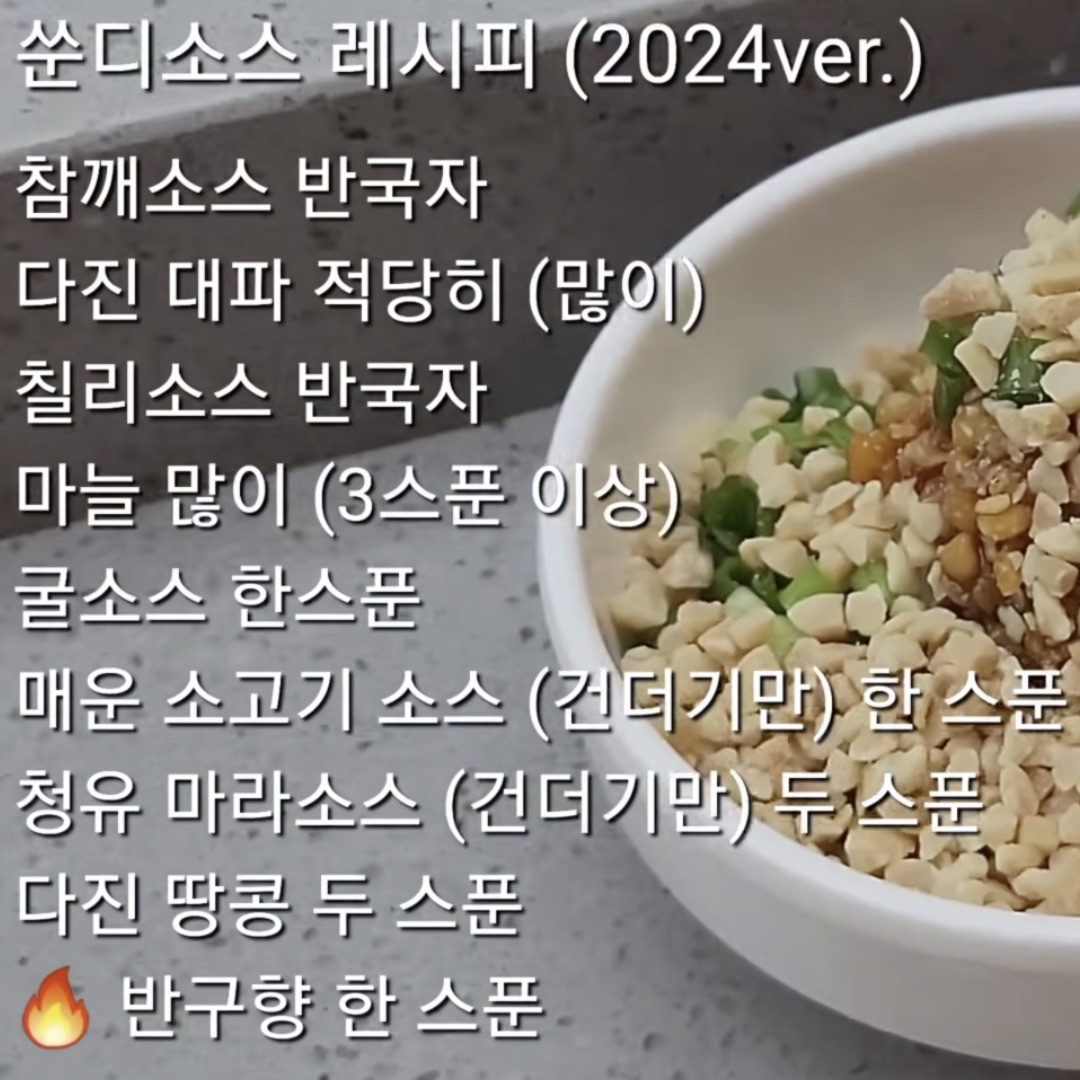
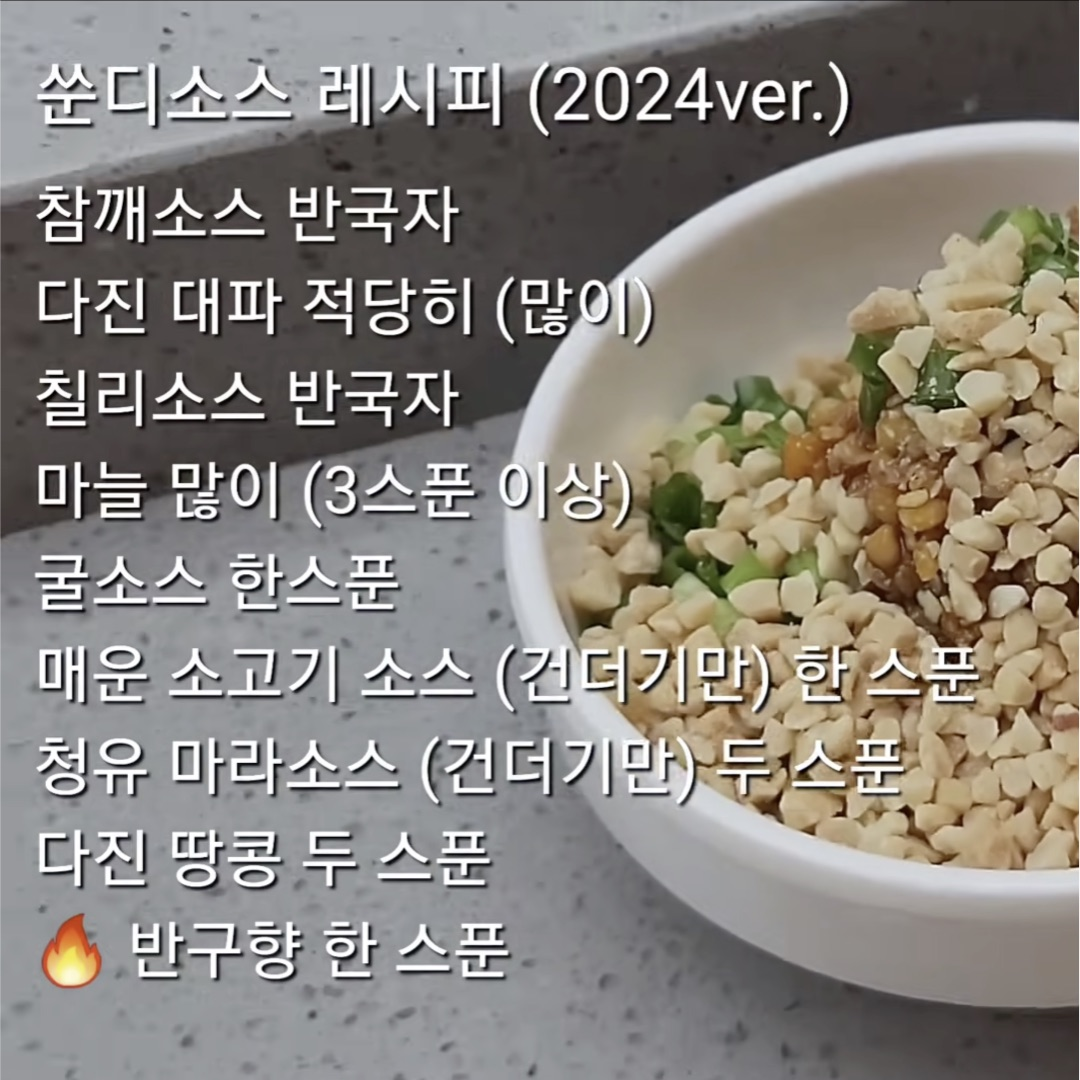
쑨디(2022/2024) 썸네일 재교체 + 캐시방지 v3

diff --git a/script.js b/script.js
@@ -52,11 +52,11 @@
       ings: [['땅콩참깨소스', '0.25', '스푼'], ['스위트칠리소스', '3.5~4', '스푼'], ['튀긴대두', '2~3', '스푼'], ['참기름', '0.5', '스푼'], ['고추기름', '0.5', '스푼'], ['다진양파', '3', '스푼'], ['다진파', '3', '스푼'], ['다진마늘', '1', '스푼']],
       steps: [],
       tip: '튀긴대두, 양파, 다진파, 다진마늘은 많으면 많을수록 맛있음' },
-    { id: 's2', date: '2022-01-22', cat: '소스', emoji: '🥣', img: 'assets/cards/쑨디2호소스_2022.jpg?v=2', imgFit: 'cover', tint: 'linear-gradient(160deg,#FBDCD3,#F5B8A8)', name: '쑨디2호소스', ver: '2022', source: 'X @deeplovehalf', desc: '트위터리안 \'쑨디\'가 2022년 트위터(현재: X)에 공개한 소스로 정식 명칭은 쑨디2호소스(1호는 없지만 멋있어 보여서 그냥 이름을 2호라고 지었다고 함)이다.',
+    { id: 's2', date: '2022-01-22', cat: '소스', emoji: '🥣', img: 'assets/cards/쑨디2호소스_2022.jpg?v=3', imgFit: 'cover', tint: 'linear-gradient(160deg,#FBDCD3,#F5B8A8)', name: '쑨디2호소스', ver: '2022', source: 'X @deeplovehalf', desc: '트위터리안 \'쑨디\'가 2022년 트위터(현재: X)에 공개한 소스로 정식 명칭은 쑨디2호소스(1호는 없지만 멋있어 보여서 그냥 이름을 2호라고 지었다고 함)이다.',
       ings: [['매운소고기소스[건더기만]', '0.5', '스푼'], ['청유훠궈소스[건더기만]', '0.5', '스푼'], ['땅콩가루', '', '넉넉하게'], ['다진파', '', '넉넉하게'], ['다진마늘', '0.5', '스푼'], ['스위트칠리소스', '0.5', '스푼'], ['굴소스', '0.5', '스푼'], ['땅콩참깨소스', '0.25', '스푼']],
       steps: [],
       tip: '' },
-    { id: 's3', date: '2024-07-28', cat: '소스', emoji: '🥣', img: 'assets/cards/쑨디2호소스_2024.jpg?v=2', imgFit: 'cover', tint: 'linear-gradient(160deg,#FFE0C2,#F8B888)', name: '쑨디2호소스', ver: '2024', source: 'YouTube 쑨디', desc: '쑨디2호소스의 개발자인 \'쑨디\'가 트위터(현재: X)에 공개한 레시피에 일부 오류가 있어서 본인의 유튜브를 통해 공식적으로 정정한 소스이다.',
+    { id: 's3', date: '2024-07-28', cat: '소스', emoji: '🥣', img: 'assets/cards/쑨디2호소스_2024.jpg?v=3', imgFit: 'cover', tint: 'linear-gradient(160deg,#FFE0C2,#F8B888)', name: '쑨디2호소스', ver: '2024', source: 'YouTube 쑨디', desc: '쑨디2호소스의 개발자인 \'쑨디\'가 트위터(현재: X)에 공개한 레시피에 일부 오류가 있어서 본인의 유튜브를 통해 공식적으로 정정한 소스이다.',
       ings: [['땅콩참깨소스', '0.5', '스푼'], ['다진파', '', '넉넉하게'], ['스위트칠리소스', '0.5', '스푼'], ['다진마늘', '3', '스푼'], ['굴소스', '1', '스푼'], ['매운소고기소스[건더기만]', '1', '스푼'], ['청유훠궈소스[건더기만]', '2', '스푼'], ['땅콩가루', '2', '스푼'], ['만구향', '1', '스푼']],
       steps: [],
       tip: '' },

diff --git a/index.html b/index.html
@@ -302,6 +302,6 @@
   </div>
 </div>
 
-<script src="script.js?v=80"></script>
+<script src="script.js?v=81"></script>
 </body>
 </html>